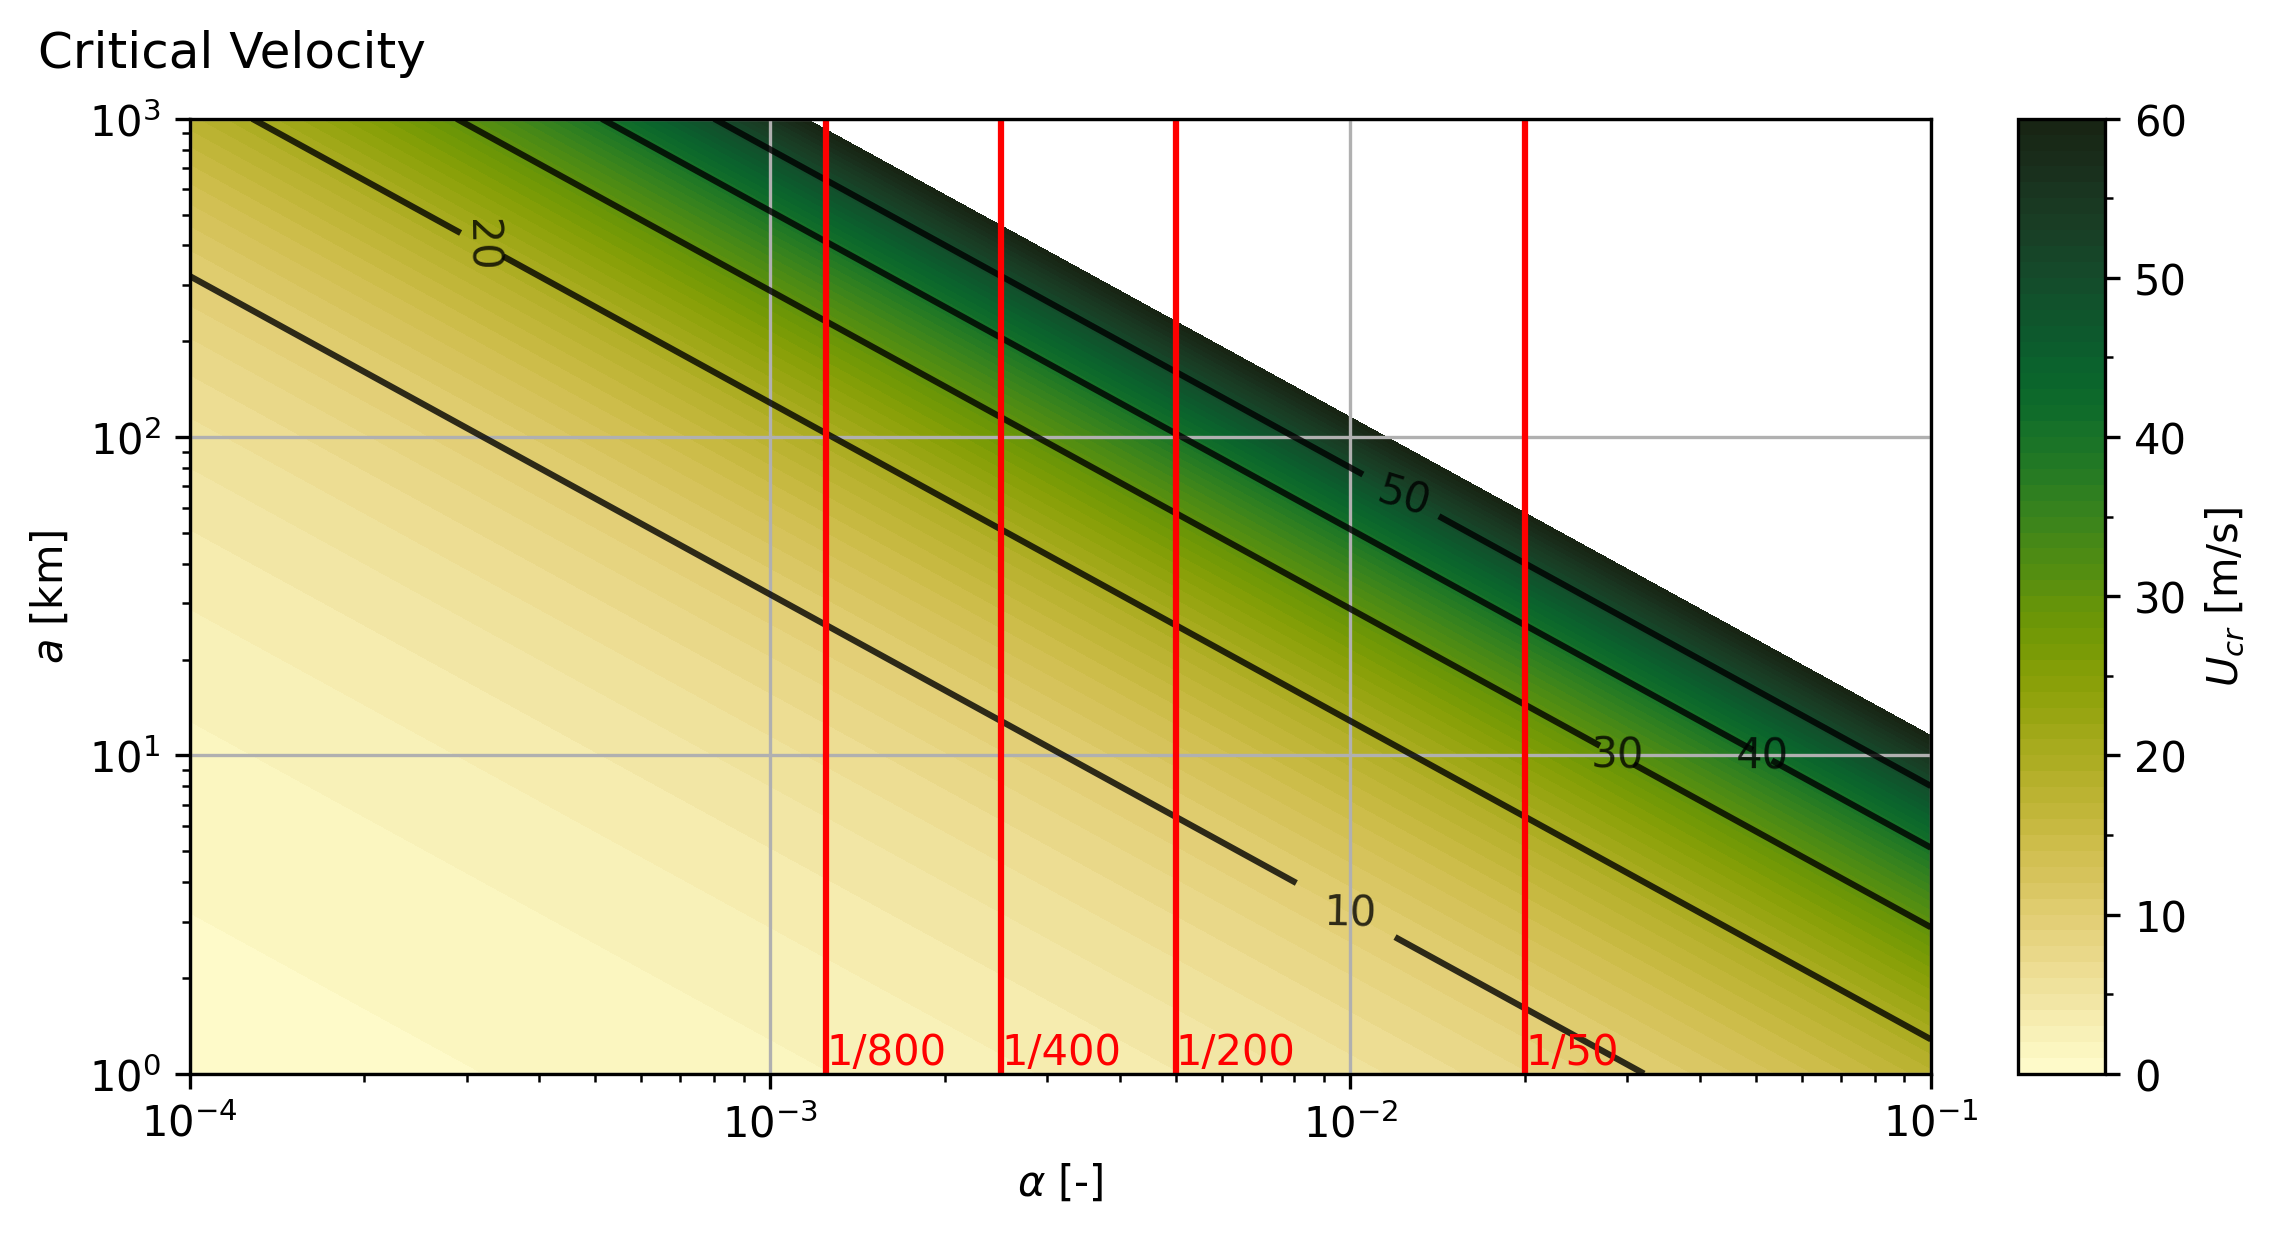
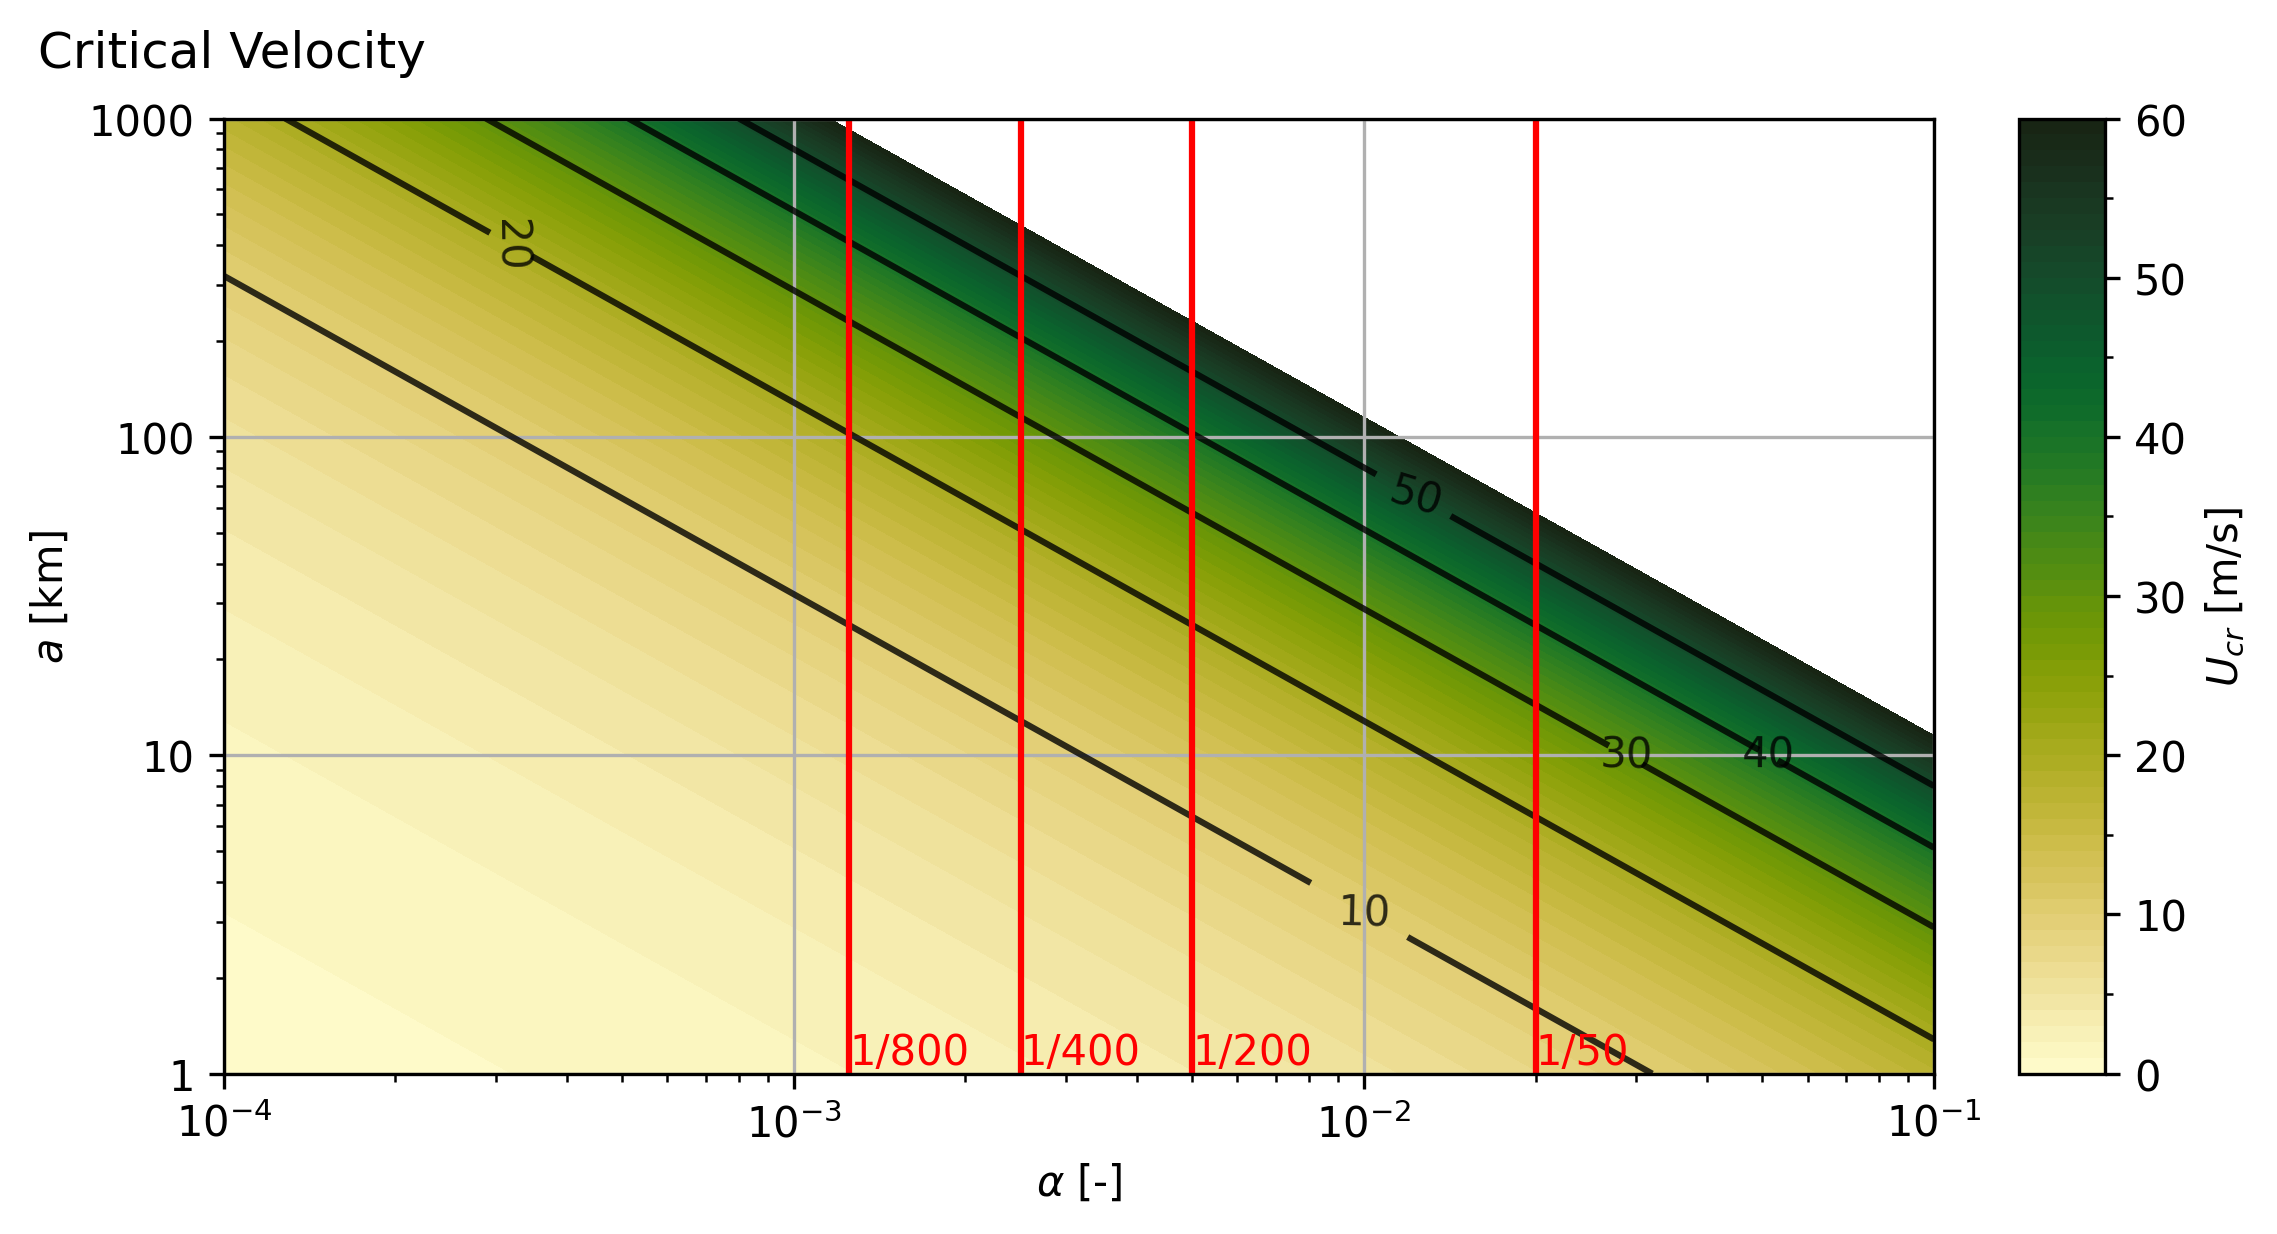
update figure ticklabels

diff --git a/theory/theory_part2.py b/theory/theory_part2.py
@@ -5,6 +5,7 @@ import sys
 
 import cmocean as cmo
 import matplotlib.pyplot as plt
+import matplotlib.ticker as mticker
 import numpy as np
 import numpy.typing as npt
 from mpl_toolkits.axes_grid1 import make_axes_locatable
@@ -79,6 +80,7 @@ def theory_figure_speed_vs_size_alpha(
     ax.set_xscale("log")
     ax.set_yscale("log")
     ax.set_ylim(1e0, 1e3)
+    ax.yaxis.set_major_formatter(mticker.ScalarFormatter())
 
     # Lines of constant alpha
     for _angle in [1 / 50, 1 / 400, 1 / 200, 1 / 800]:
